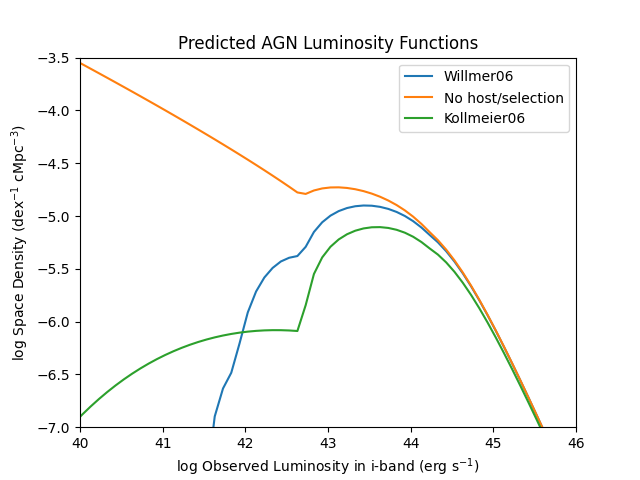
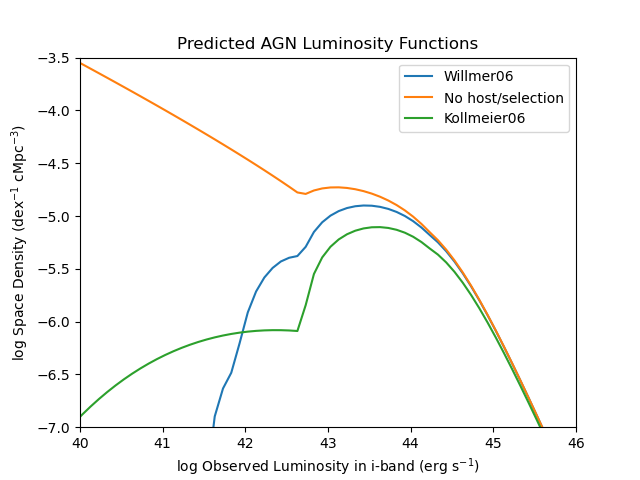
Updated codes to new SEDs structure.

diff --git a/test_script_v2.py b/test_script_v2.py
@@ -3,12 +3,12 @@ import astropy.units as u
 from astropy.constants import c
 import matplotlib.pyplot as plt
 
-from Phi_Obs_hostgal_MiLim import get_phi_lam_obs
+from Phi_Obs_hostgal_MiLim_v2 import get_phi_lam_obs
 #from Phi_Obs_v2_MiLim import get_phi_lam_obs
 from qlfhosts.QLFs.Shen20 import QLF
 
-from qlfhosts.SEDs.lrt_SED_model import lrt_SED_model
-from qlfhosts.AGN_Selection.R02 import R02
+from qlfhosts.SEDs import A10_AGN, A10_hosts
+from qlfhosts.AGN_Selection.R02_v2 import R02
 from qlfhosts.GLFs.Willmer06 import Willmer06
 from qlfhosts.GLFs.Uniform import Uniform
 from qlfhosts.GLFs.Kollmeier06 import Kollmeier06
@@ -20,9 +20,13 @@ z = 0.5
 #Set the observed wavelength at which to estimate the QLF.
 lam_eff_filter = 5000.*u.angstrom
 
+#Set the band names.
+bp_names = ['sdssu', 'sdssg', 'sdssr']
+
 #Set up the SED models to use. 
-host_type = np.array([0., 1., 0.])
-sed_model = lrt_SED_model(z, host_type, lam_eff_filter)
+agn_sed = A10_AGN(z, bp_names=bp_names)
+hosts_sed = A10_hosts(z, bp_names=bp_names)
+hosts_sed.likelihood = np.array([0. ,1. ,0.])
 
 #Set up the intrinsic qlf to use. 
 qlf = QLF()
@@ -38,20 +42,20 @@ lL_frac_min = -5.0
 lL_frac_max =  6.0
 
 #Estimate the observed QLF.
-phi, dlLfrac = get_phi_lam_obs(z, qlf, lL_frac_min, lL_frac_max, lam_eff_filter , sed_model, sel_crit, glf)
+phi, dlLfrac = get_phi_lam_obs(z, qlf, lL_frac_min, lL_frac_max, lam_eff_filter , agn_sed, hosts_sed, sel_crit, glf)
 
 #Estimate now without the selection applied considering reddening and host contamination.
 glf2 = Uniform()
-phi2, dlLfrac2 = get_phi_lam_obs(z, qlf, lL_frac_min, lL_frac_max, lam_eff_filter , sed_model, sel_crit, glf2)
+phi2, dlLfrac2 = get_phi_lam_obs(z, qlf, lL_frac_min, lL_frac_max, lam_eff_filter , agn_sed, hosts_sed, sel_crit, glf2)
 
 #Estimate now with the Eddington-ratio dependent host distribution.
-glf3 = Kollmeier06()
-phi3, dlLfrac3 = get_phi_lam_obs(z, qlf, lL_frac_min, lL_frac_max, lam_eff_filter , sed_model, sel_crit, glf3)
+#glf3 = Kollmeier06()
+#phi3, dlLfrac3 = get_phi_lam_obs(z, qlf, lL_frac_min, lL_frac_max, lam_eff_filter , agn_sed, hosts_sed, sel_crit, glf3)
 
 #Plot the observed QLF.
 lLfracs = np.arange(lL_frac_min, lL_frac_max+0.1*dlLfrac.value, dlLfrac.value)
 lLfracs2 = np.arange(lL_frac_min, lL_frac_max+0.1*dlLfrac2.value, dlLfrac2.value)
-lLfracs3 = np.arange(lL_frac_min, lL_frac_max+0.1*dlLfrac3.value, dlLfrac3.value)
+#lLfracs3 = np.arange(lL_frac_min, lL_frac_max+0.1*dlLfrac3.value, dlLfrac3.value)
 
 Lstar = 10.**(qlf.log_Lstar(z)) * qlf.Lstar_units
 nu_Lstarnu = qlf.L_at_lam(Lstar, lam_eff_filter/(1.+z))
@@ -62,11 +66,11 @@ Lstar_nu = (nu_Lstarnu/nu_rest).to(u.erg/u.s/u.Hz).value
 norm = np.log10(nu_Lstarnu.to(u.erg/u.s).value)
 lLnu = lLfracs + norm
 lLnu2 = lLfracs2 + norm
-lLnu3 = lLfracs3 + norm
+#lLnu3 = lLfracs3 + norm
 
 lphi = np.log10(phi.value)
 lphi2 = np.log10(phi2.value)
-lphi3 = np.log10(phi3.value)
+#lphi3 = np.log10(phi3.value)
 
 #plt.plot(lLfracs, phi)
 #plt.plot(lLfracs2, phi2)
@@ -74,8 +78,8 @@ lphi3 = np.log10(phi3.value)
 #plt.ylim([1e-7, 1e-4])
 
 plt.plot(lLnu , lphi , label='Willmer06')
-plt.plot(lLnu2, lphi2, label='No host/selection')
-plt.plot(lLnu3, lphi3, label='Kollmeier06')
+#plt.plot(lLnu2, lphi2, label='No host/selection')
+#plt.plot(lLnu3, lphi3, label='Kollmeier06')
 #plt.xlim([39.56, 51.03])
 #plt.ylim([-17.3, -2.94])
 plt.xlim([40., 46.])
@@ -87,4 +91,4 @@ plt.xlabel(r'log Observed Luminosity in i-band ($\rm erg~\rm s^{-1})$')
 plt.ylabel(r'log Space Density ($\rm dex^{-1}~\rm cMpc^{-3})$')
 
 #plt.show()
-plt.savefig("Predicted_AGN_LF.png")
+plt.savefig("Predicted_AGN_LF_v2.png")

diff --git a/qlfhosts/util/Lhost_Lagn_max_v2.py b/qlfhosts/util/Lhost_Lagn_max_v2.py
@@ -9,32 +9,46 @@ def Lhost_Lagn_max(agn_sed, hosts_sed, Alam, lam_rest, sel_crit, xlow=0, xhig=10
 
     #There should only be one AGN SED, but there can be multiple hosts. 
     x_unscaled = np.zeros(Lnu_hosts_unscaled.shape)
+    x = np.zeros(len(x_unscaled))
     for k, Lnu_host_unscaled in enumerate(Lnu_hosts_unscaled):
         x_unscaled[k] = Lnu_agn_unscaled[0]/Lnu_host_unscaled
 
-    #Check that xmin selects the source and that xmax does not. If this is not met, then return the bound.
-    if not sel_crit.is_selected(xlow, Alam, lam_rest, agn_sed, hosts_sed, k_hosts_sed):
-        if debug:
-            print("Object not selected as AGN at xlow. Returning xlow.")
-        return xlow
-    if sel_crit.is_selected(xhig, Alam, lam_rest, agn_sed, hosts_sed, k_hosts_sed):
-        if debug:
-            print("Object selected as AGN at xhig. Returning xhig.")
-        return xhig
+        #Don't go through this if the host sed template has 0 likelihood (i.e., is not being used)
+        if hosts_sed.likelihood[k]==0.:
+            x[k] = 0.
+            continue
 
-    #Otherwise, bisect the way to the right solution.
-    for i in range(niter_max):
-        x = 0.5*(xlow+xhig)
-        if sel_crit.is_selected(x, Alam, lam_rest, agn_sed, hosts_sed, k_hosts_sed):
-            xlow = x
-        else:
-            xhig = x
-        if (xhig-xlow)/x<1e-4:
-            return x
+        #Check that xmin selects the source and that xmax does not. If this is not met, then return the bound.
+        if not sel_crit.is_selected(xlow, Alam, lam_rest, agn_sed, hosts_sed, k, x_unscaled):
+            if debug:
+                print("Object not selected as AGN at xlow. Returning xlow.")
+            x[k] = xlow
+            continue
 
-    #Only gets here if solution not found in niter_max iterations.
-    if debug:
-        print("Exceed niter_max={} iterations. Returning current solution.".format(niter_max))
+        if sel_crit.is_selected(xhig, Alam, lam_rest, agn_sed, hosts_sed, k, x_unscaled):
+            if debug:
+                print("Object selected as AGN at xhig. Returning xhig.")
+            x[k] = xhig
+            continue
+
+        #Otherwise, bisect the way to the right solution.
+        x1 = xlow
+        x2 = xhig
+        for i in range(niter_max):
+            x[k] = 0.5*(x1+x2)
+            if sel_crit.is_selected(x[k], Alam, lam_rest, agn_sed, hosts_sed, k, x_unscaled):
+                x1 = x[k]
+            else:
+                x2 = x[k]
+            if (x1-x2)/x[k]<1e-4:
+                break
+
+        #Only gets here if solution not found in niter_max iterations.
+        if debug:
+            print("Exceed niter_max={} iterations. Returning current solution.".format(niter_max))
+        continue
+
+    #print(x)
     return x
 
         

diff --git a/Phi_Obs_hostgal_MiLim_v2.py b/Phi_Obs_hostgal_MiLim_v2.py
@@ -4,7 +4,7 @@ from astropy.constants import L_sun
 from scipy.interpolate import interp1d
 from astropy.constants import c
 
-from qlfhosts.util.Lhost_Lagn_max import Lhost_Lagn_max
+from qlfhosts.util.Lhost_Lagn_max_v2 import Lhost_Lagn_max
 
 """
 This version of the script matches what is done in the Shen20 pubtools, and gives very similar results. However, I think this is actually something I don't follow in their implementation in how Lx is calculated for f(NH; Lx, z).
@@ -58,7 +58,7 @@ def jacobian(Lfrac, Lstar_10, qlf):
 
 
 
-def get_phi_lam_obs(z, qlf, lLfrac_lam_obs_min, lLfrac_lam_obs_max, lam_eff_filter, sed, sel_crit, glf, lLfrac_min_lim=None):
+def get_phi_lam_obs(z, qlf, lLfrac_lam_obs_min, lLfrac_lam_obs_max, lam_eff_filter, agn_sed, hosts_sed, sel_crit, glf, lLfrac_min_lim=None):
 
     """
     This is the main function of this module. For a given redshift, it returns the observed qlf at a given observed wavelength equal to the effective wavelength of the filter used / (1+z).
@@ -137,10 +137,12 @@ def get_phi_lam_obs(z, qlf, lLfrac_lam_obs_min, lLfrac_lam_obs_max, lam_eff_filt
     ltheta_2D = np.tile(ltheta, [len(lLfrac_lam_obs_grid), 1])
 
     #Calculate the maximum host luminosity we can tolerate for each value of the reddening being considered. 
-    Lh_La_max = np.zeros(lNH.shape)
+    Lh_La_max = np.zeros((lNH.shape[0],hosts_sed.likelihood.shape[0]))
+    print(Lh_La_max.shape)
+    input()
     A_lams = 2.5*ltheta
     for k, A_lam in enumerate(A_lams):
-        Lh_La_max[k] = Lhost_Lagn_max(sed, A_lam, sel_crit)
+        Lh_La_max[k] = Lhost_Lagn_max(agn_sed, hosts_sed, A_lam, lam_eff_filter/(1.+z), sel_crit)
         print(Lh_La_max[k])
         input()
     Lh_La_max_2D = np.tile(Lh_La_max, [len(lLfrac_lam_obs_grid),1])
@@ -157,7 +159,7 @@ def get_phi_lam_obs(z, qlf, lLfrac_lam_obs_min, lLfrac_lam_obs_max, lam_eff_filt
     #    print("{0:.2f} {1:.5f} {2:.2f}".format(lNH[k], Lh_La_max[k], glf.P(Lh_nu_max[k].to(u.erg/u.s/u.Hz).value)))
     L_bol_AGN = Lfrac*Lstar
     L_bol_AGN_2D = np.tile(L_bol_AGN, [len(lNH), 1]).T
-    P_2D = glf.P(Lh_nu_max_2D, sed=sed, L_AGN = L_bol_AGN_2D)
+    P_2D = glf.P(Lh_nu_max_2D, sed=agn_sed, L_AGN = L_bol_AGN_2D)
     #print(P_2D)
     # exit()
 

diff --git a/qlfhosts/AGN_Selection/selection_criteria_class_v2.py b/qlfhosts/AGN_Selection/selection_criteria_class_v2.py
@@ -7,30 +7,33 @@ class SelectionCriteria(object):
     def __init__(self):
         return
 
-    def is_selected(self,Lhost_Lagn, Alam, lam_rest, agn_sed, hosts_sed, k_hosts_sed):
+    def is_selected(self,Lhost_Lagn, Alam, lam_rest, agn_sed, hosts_sed, k_hosts_sed, Lhost_Lagn_unscaled):
         
+        #Set the normalization for the SED ratios.
+        ratio = Lhost_Lagn/Lhost_Lagn_unscaled[k_hosts_sed]
+
         #Figure out the reddening factors for the AGN. 
         Aband = np.zeros(len(agn_sed.bps))
         klam_norm = agn_sed.klam(lam_rest)
         for j, bp in enumerate(agn_sed.bps):
             lam_eff_band = bp.avgwave()
-            Aband[j] = agn_sed.klam(lam_eff_band/(1+agn_sed.z)) / klam_norm
+            Aband[j] = (agn_sed.klam(lam_eff_band/(1+agn_sed.z)) / klam_norm) * Alam
 
         #Get the AGN magnitudes.
         agn_mags = dict()
-        for j, bp_name in agn_sed.bp_names:
+        for j, bp_name in enumerate(agn_sed.bp_names):
             agn_mags[bp_name] = agn_sed.mag_unscaled[0][j] + Aband[j]
 
         #Get the host magnitudes. 
         host_mags = dict()
-        for j, bp_name in hosts_sed.bp_names:
+        for j, bp_name in enumerate(hosts_sed.bp_names):
             host_mags[bp_name] = hosts_sed.mag_unscaled[k_hosts_sed][j]
 
         #Combine the magnitudes.
         try:
             mag = dict()
             for bp_name in agn_mags:
-                mag[bp_name] = -2.5*np.log10(10**(-0.4*agn_mags[bp_name]) + Lhost_Lagn * 10**(-0.4*host_mags[bp_name]))
+                mag[bp_name] = -2.5*np.log10(10**(-0.4*agn_mags[bp_name]) + ratio * 10**(-0.4*host_mags[bp_name]))
         except KeyError:
             print("Need to use the same bands in AGN and hosts SEDs.")
             sys.exit()

diff --git a/qlfhosts/AGN_Selection/R02_v2.py b/qlfhosts/AGN_Selection/R02_v2.py
@@ -1,6 +1,6 @@
 import numpy as np
 
-from .selection_criteria_class import SelectionCriteria
+from .selection_criteria_class_v2 import SelectionCriteria
 
 #Extremely simplified version of the SDSS selection criteria for low-z quasars by Richards et al. (2002).
 class R02(SelectionCriteria):
@@ -10,8 +10,8 @@ class R02(SelectionCriteria):
         return
 
     def is_agn(self, mag):
-        if np.isinf(mag).any():
-            return False
+        #if np.isinf([mag['sdssu'],mag['sdssg'],mag['sdssr']]).any():
+        #    return False
         if mag['sdssu']-mag['sdssg']<0.9 and mag['sdssg']-mag['sdssr']<0.4:
             return True
         else:

diff --git a/qlfhosts/SEDs/A10_hosts.py b/qlfhosts/SEDs/A10_hosts.py
@@ -17,7 +17,7 @@ class A10_hosts(general_SED_model):
     def __init__(self, z, bp_names=['sdssu'], bp_folder=None, cosmo=None, likelihood=None):
 
         #Read the A10 SEDs. 
-        fname = get_pkg_data_filename(os.path.join('SED_templates', 'A10_SEDs.dat'))
+        fname = get_pkg_data_filename(os.path.join('..','SED_templates', 'A10_SEDs.dat'))
         data = np.loadtxt(fname, skiprows=1)
 
         #Get the wavelengths from the frequency. 
